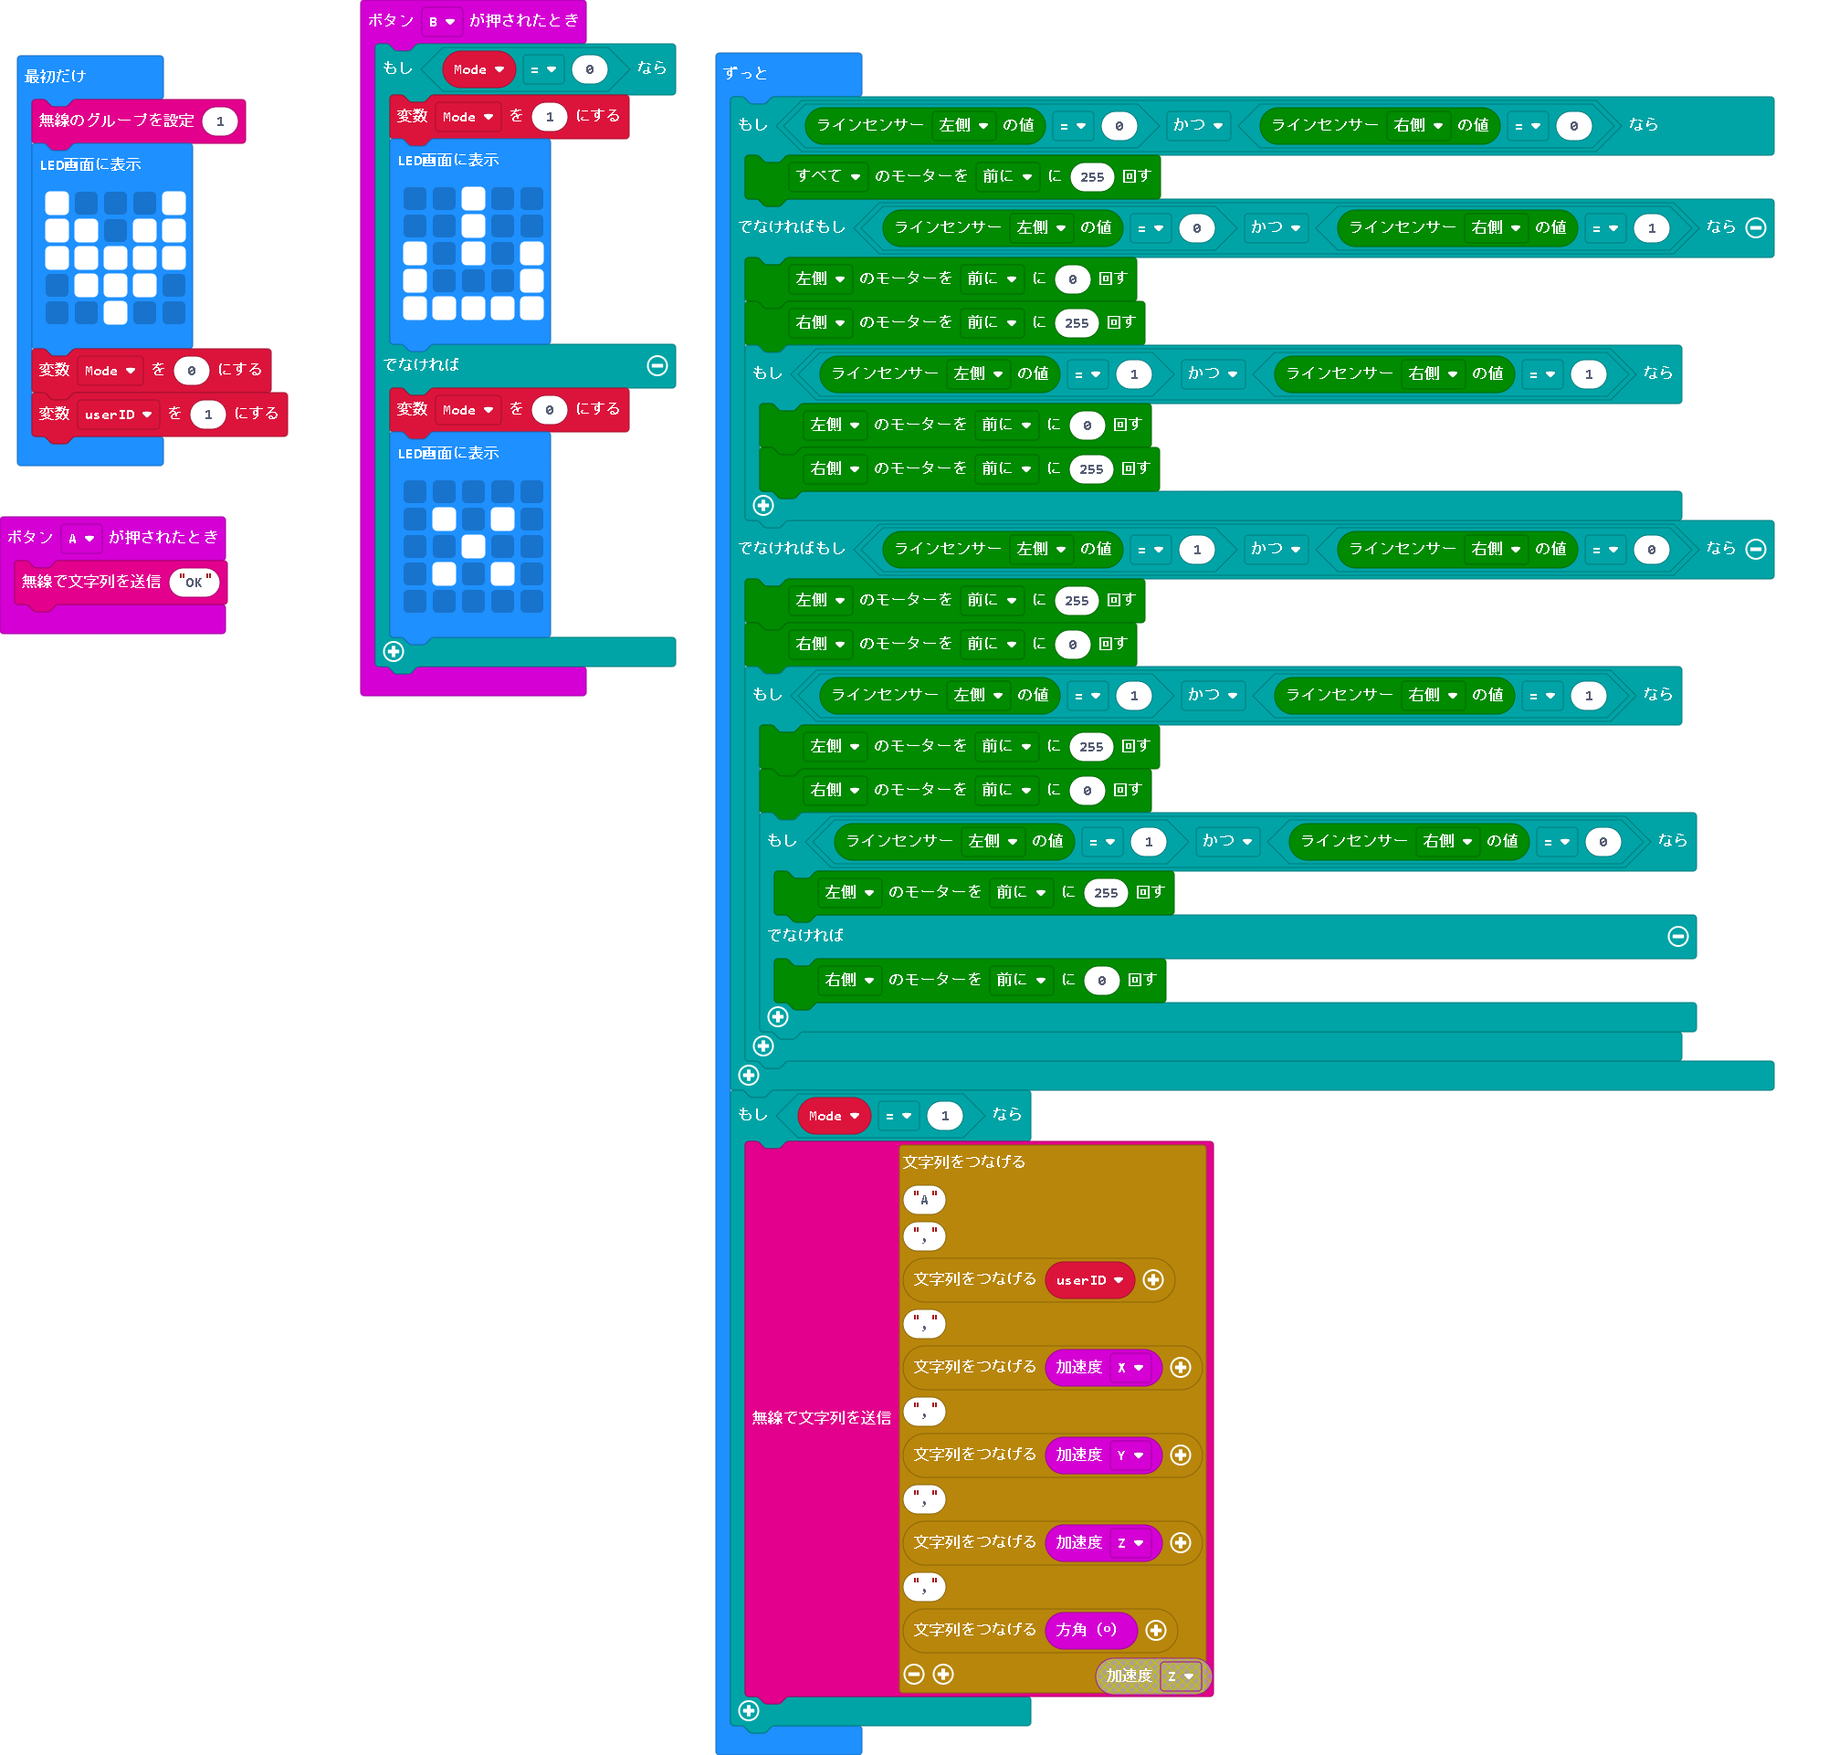
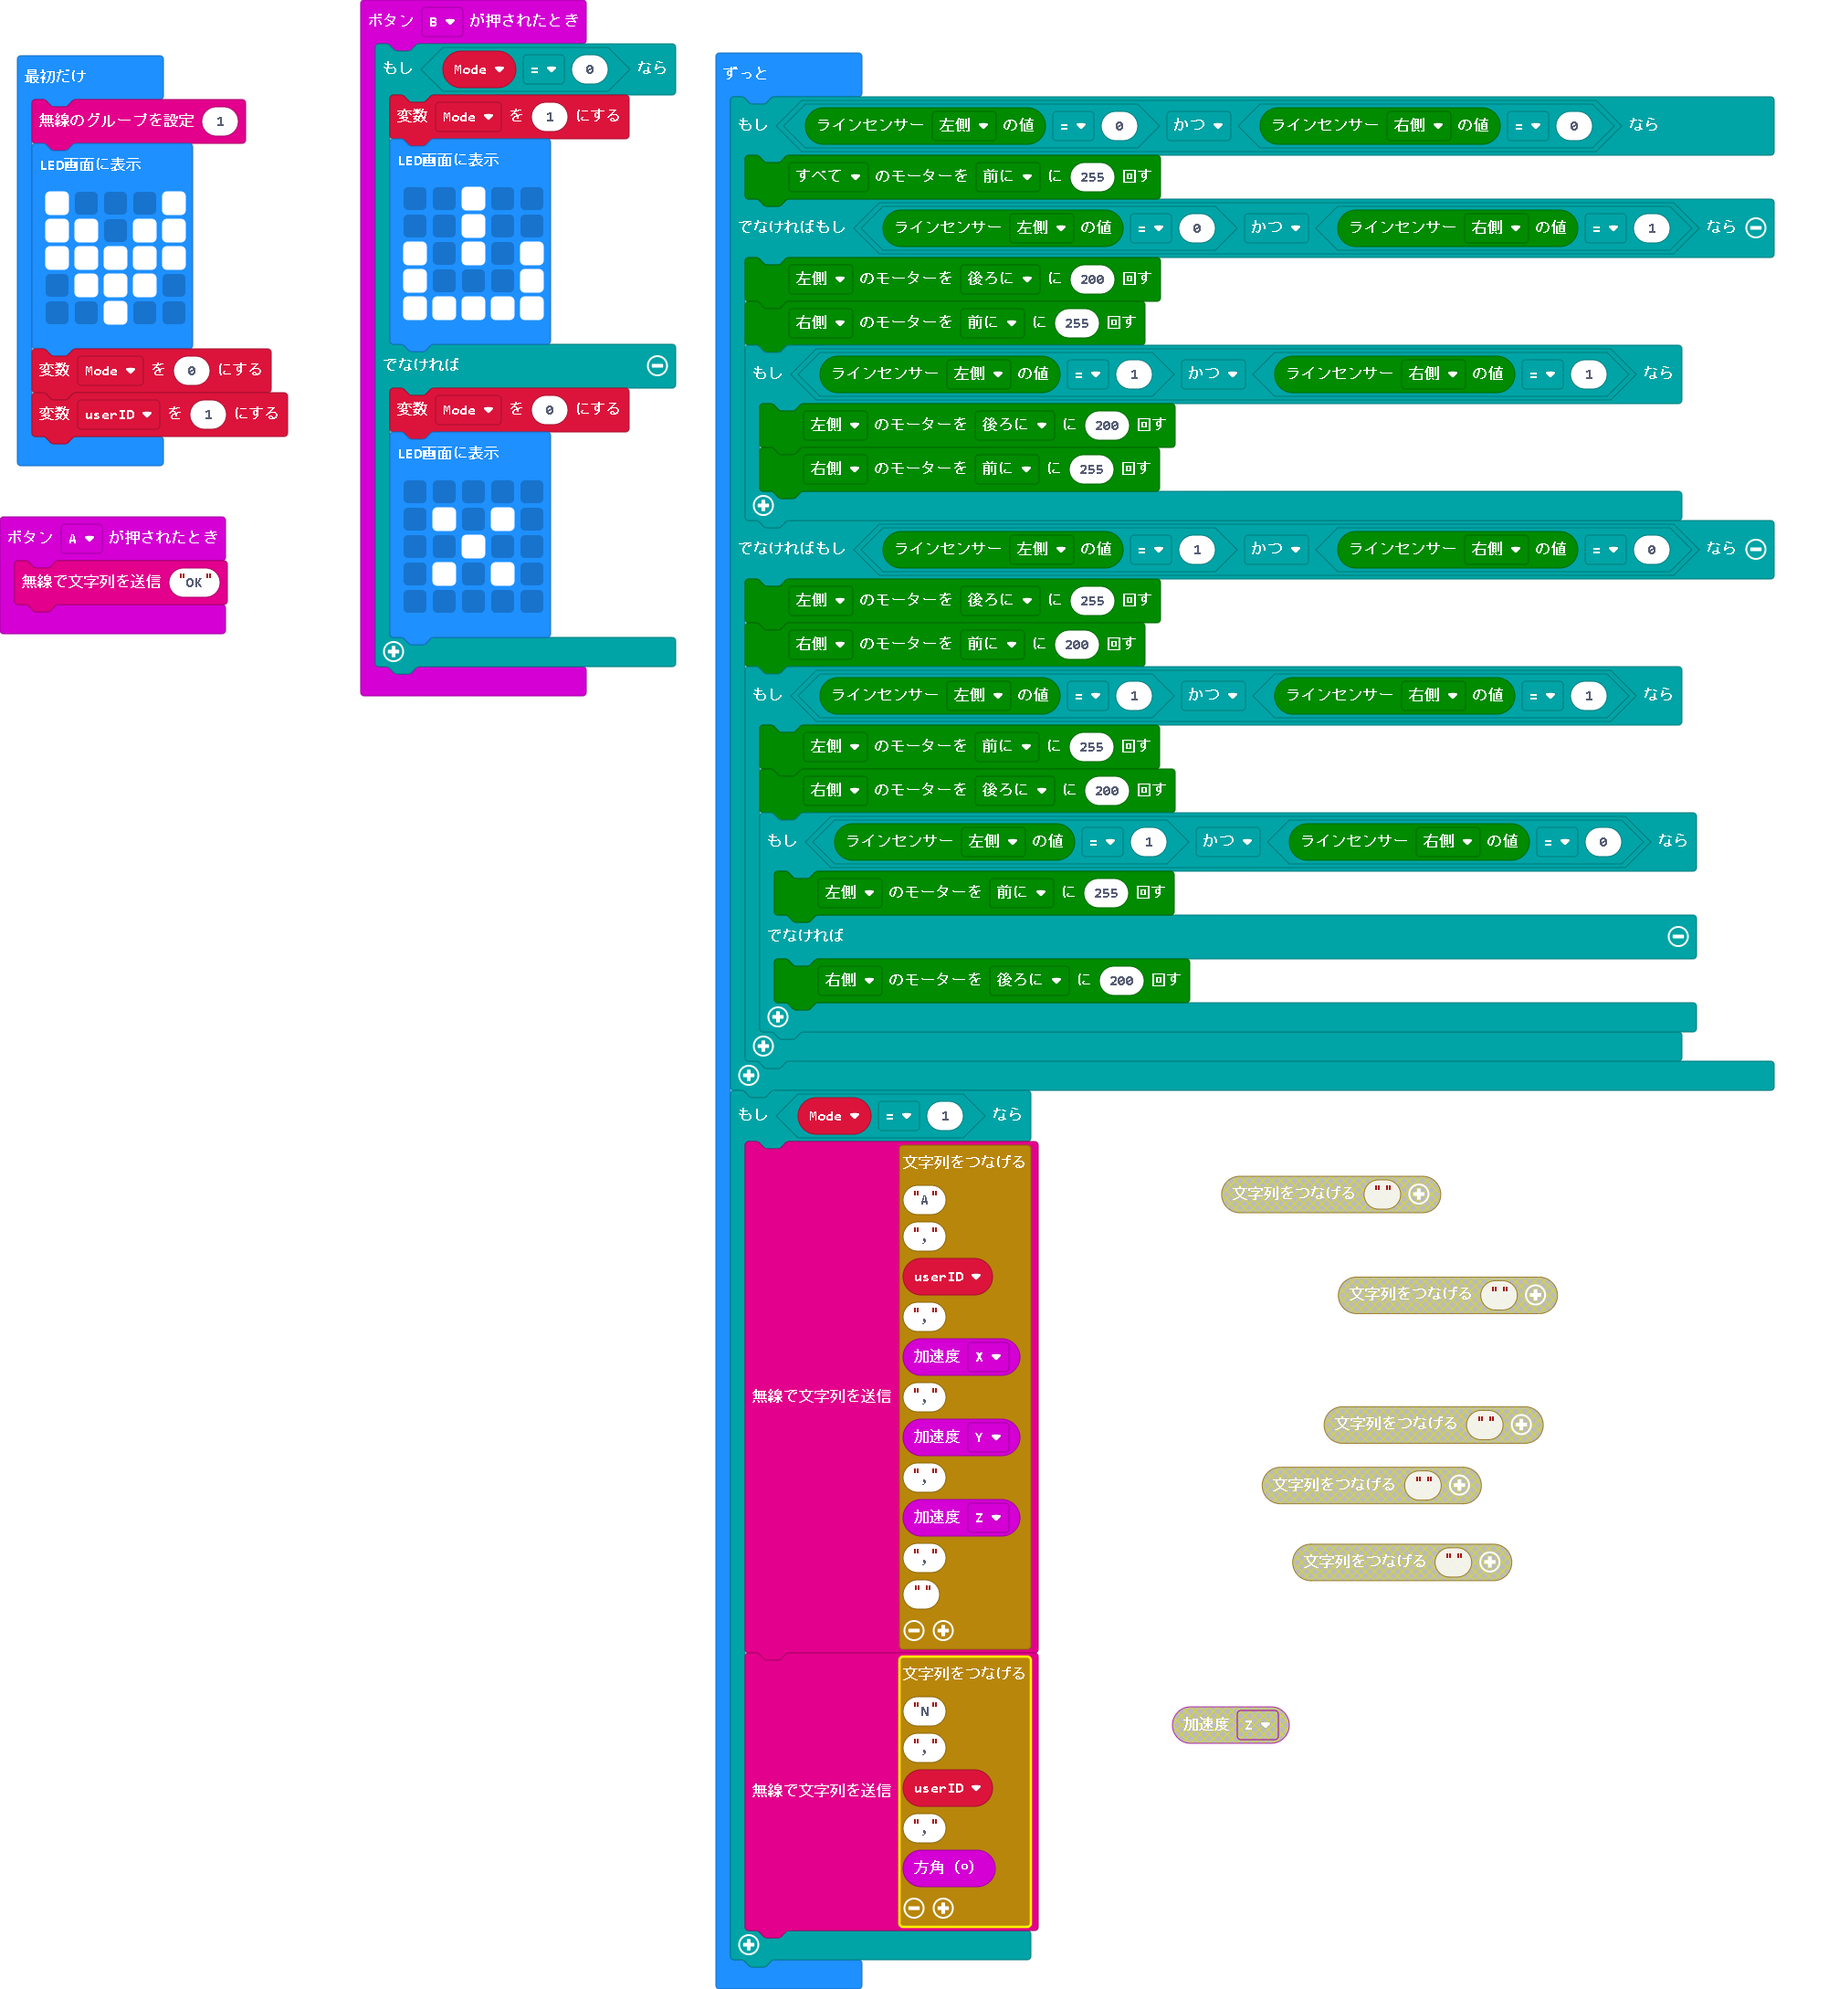
角度を出力

diff --git a/main.ts b/main.ts
@@ -37,26 +37,27 @@ basic.forever(function () {
     if (maqueen.readPatrol(maqueen.Patrol.PatrolLeft) == 0 && maqueen.readPatrol(maqueen.Patrol.PatrolRight) == 0) {
         maqueen.motorRun(maqueen.Motors.All, maqueen.Dir.CW, 255)
     } else if (maqueen.readPatrol(maqueen.Patrol.PatrolLeft) == 0 && maqueen.readPatrol(maqueen.Patrol.PatrolRight) == 1) {
-        maqueen.motorRun(maqueen.Motors.M1, maqueen.Dir.CW, 0)
+        maqueen.motorRun(maqueen.Motors.M1, maqueen.Dir.CCW, 200)
         maqueen.motorRun(maqueen.Motors.M2, maqueen.Dir.CW, 255)
         if (maqueen.readPatrol(maqueen.Patrol.PatrolLeft) == 1 && maqueen.readPatrol(maqueen.Patrol.PatrolRight) == 1) {
-            maqueen.motorRun(maqueen.Motors.M1, maqueen.Dir.CW, 0)
+            maqueen.motorRun(maqueen.Motors.M1, maqueen.Dir.CCW, 200)
             maqueen.motorRun(maqueen.Motors.M2, maqueen.Dir.CW, 255)
         }
     } else if (maqueen.readPatrol(maqueen.Patrol.PatrolLeft) == 1 && maqueen.readPatrol(maqueen.Patrol.PatrolRight) == 0) {
-        maqueen.motorRun(maqueen.Motors.M1, maqueen.Dir.CW, 255)
-        maqueen.motorRun(maqueen.Motors.M2, maqueen.Dir.CW, 0)
+        maqueen.motorRun(maqueen.Motors.M1, maqueen.Dir.CCW, 255)
+        maqueen.motorRun(maqueen.Motors.M2, maqueen.Dir.CW, 200)
         if (maqueen.readPatrol(maqueen.Patrol.PatrolLeft) == 1 && maqueen.readPatrol(maqueen.Patrol.PatrolRight) == 1) {
             maqueen.motorRun(maqueen.Motors.M1, maqueen.Dir.CW, 255)
-            maqueen.motorRun(maqueen.Motors.M2, maqueen.Dir.CW, 0)
+            maqueen.motorRun(maqueen.Motors.M2, maqueen.Dir.CCW, 200)
             if (maqueen.readPatrol(maqueen.Patrol.PatrolLeft) == 1 && maqueen.readPatrol(maqueen.Patrol.PatrolRight) == 0) {
                 maqueen.motorRun(maqueen.Motors.M1, maqueen.Dir.CW, 255)
             } else {
-                maqueen.motorRun(maqueen.Motors.M2, maqueen.Dir.CW, 0)
+                maqueen.motorRun(maqueen.Motors.M2, maqueen.Dir.CCW, 200)
             }
         }
     }
     if (Mode == 1) {
-        radio.sendString("A" + "," + ("" + userID) + "," + ("" + input.acceleration(Dimension.X)) + "," + ("" + input.acceleration(Dimension.Y)) + "," + ("" + input.acceleration(Dimension.Z)) + "," + ("" + input.compassHeading()))
+        radio.sendString("A" + "," + userID + "," + input.acceleration(Dimension.X) + "," + input.acceleration(Dimension.Y) + "," + input.acceleration(Dimension.Z) + "," + "")
+        radio.sendString("N" + "," + userID + "," + input.compassHeading())
     }
 })
